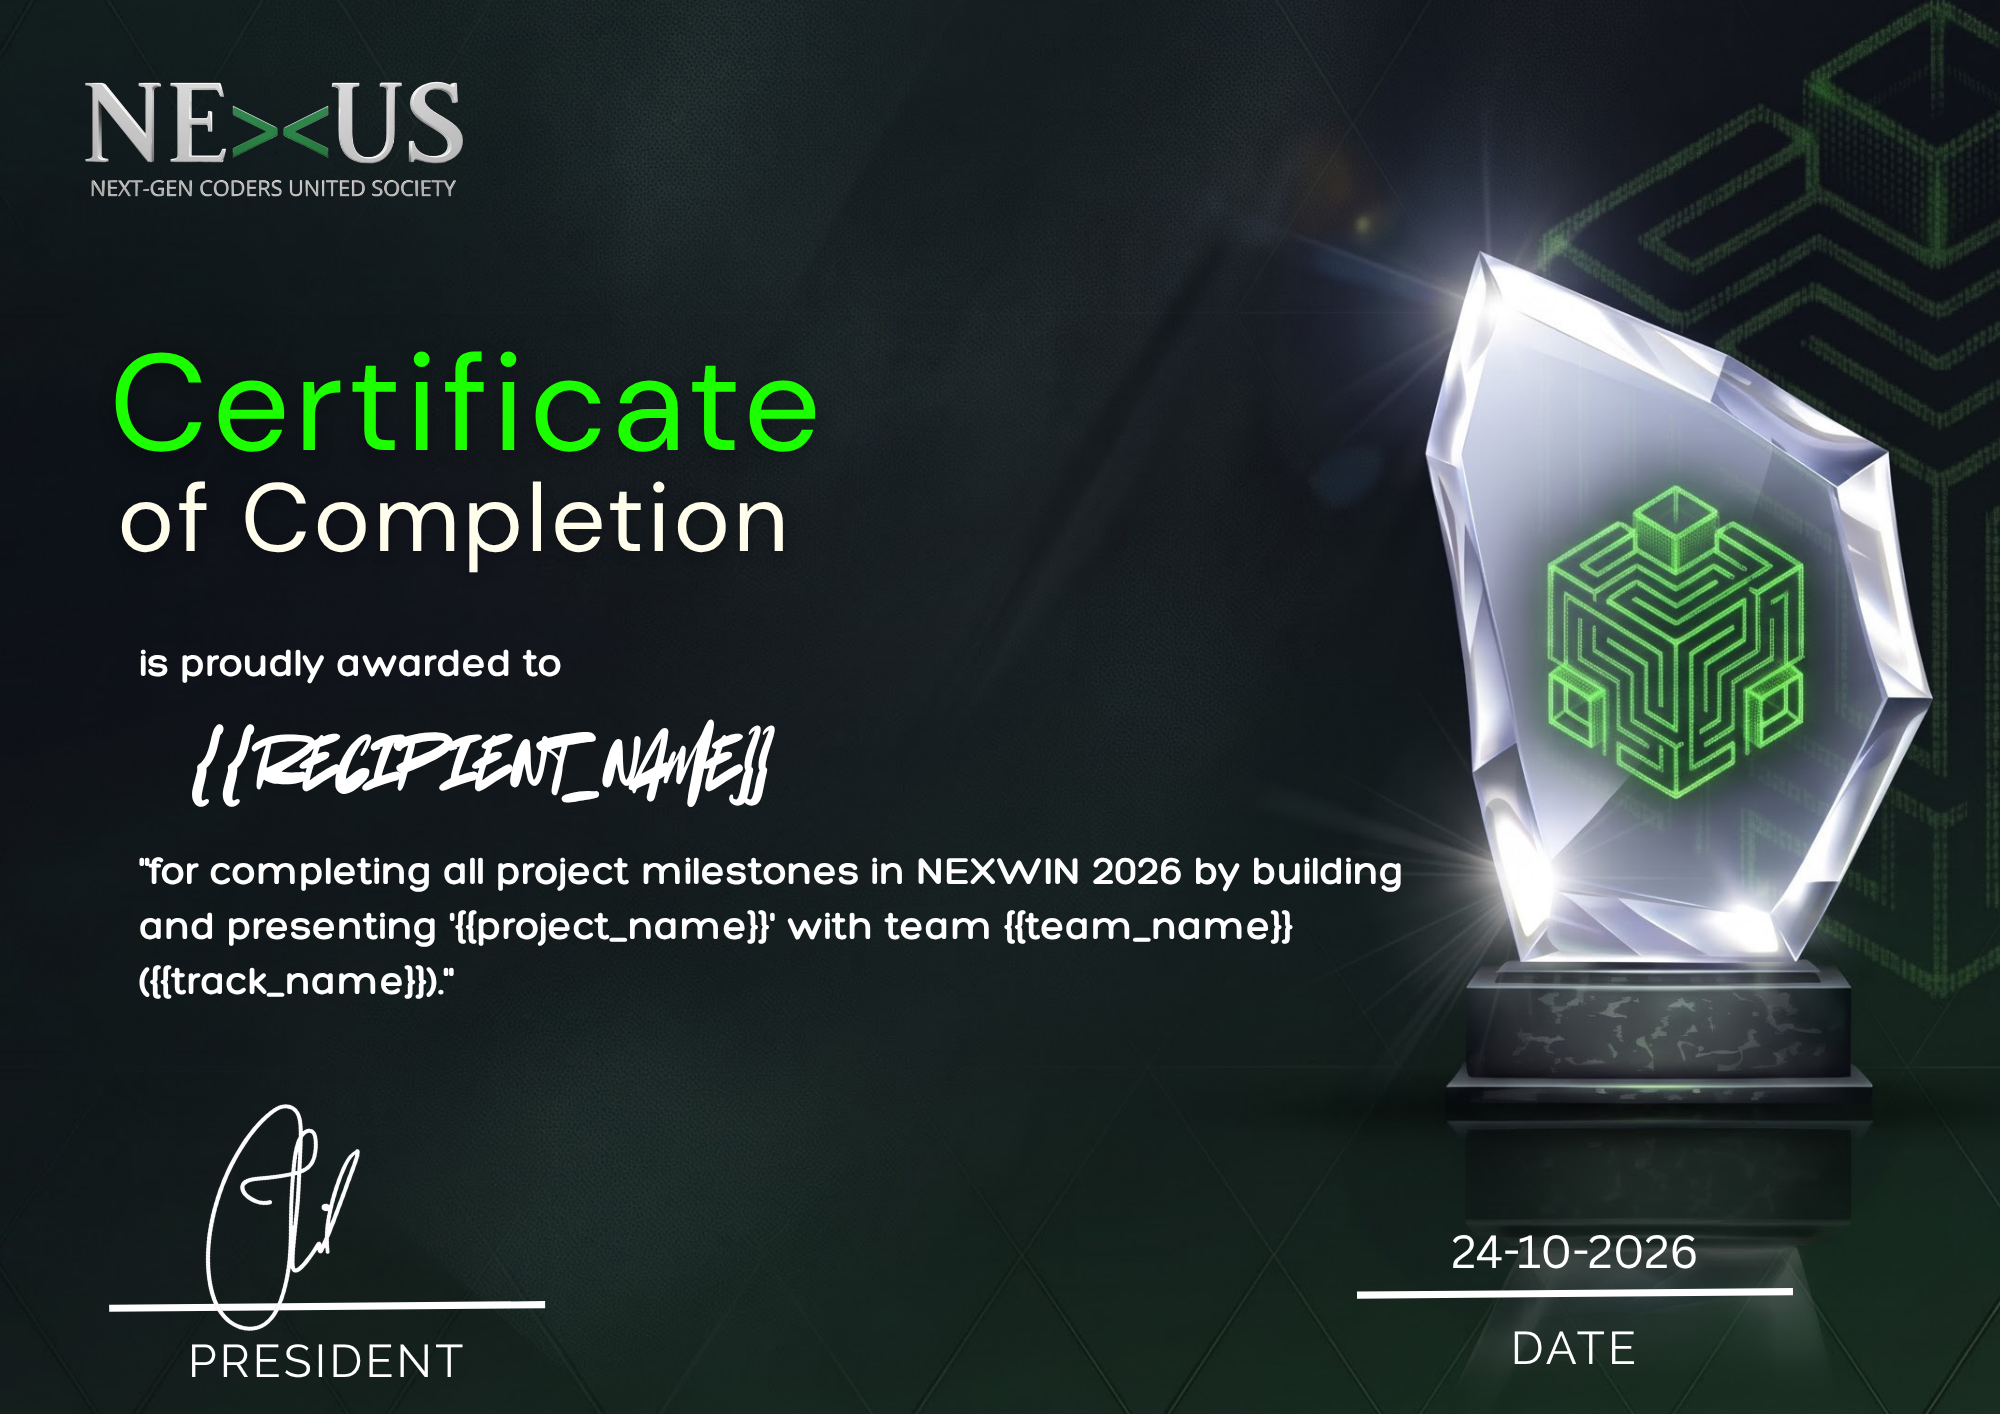
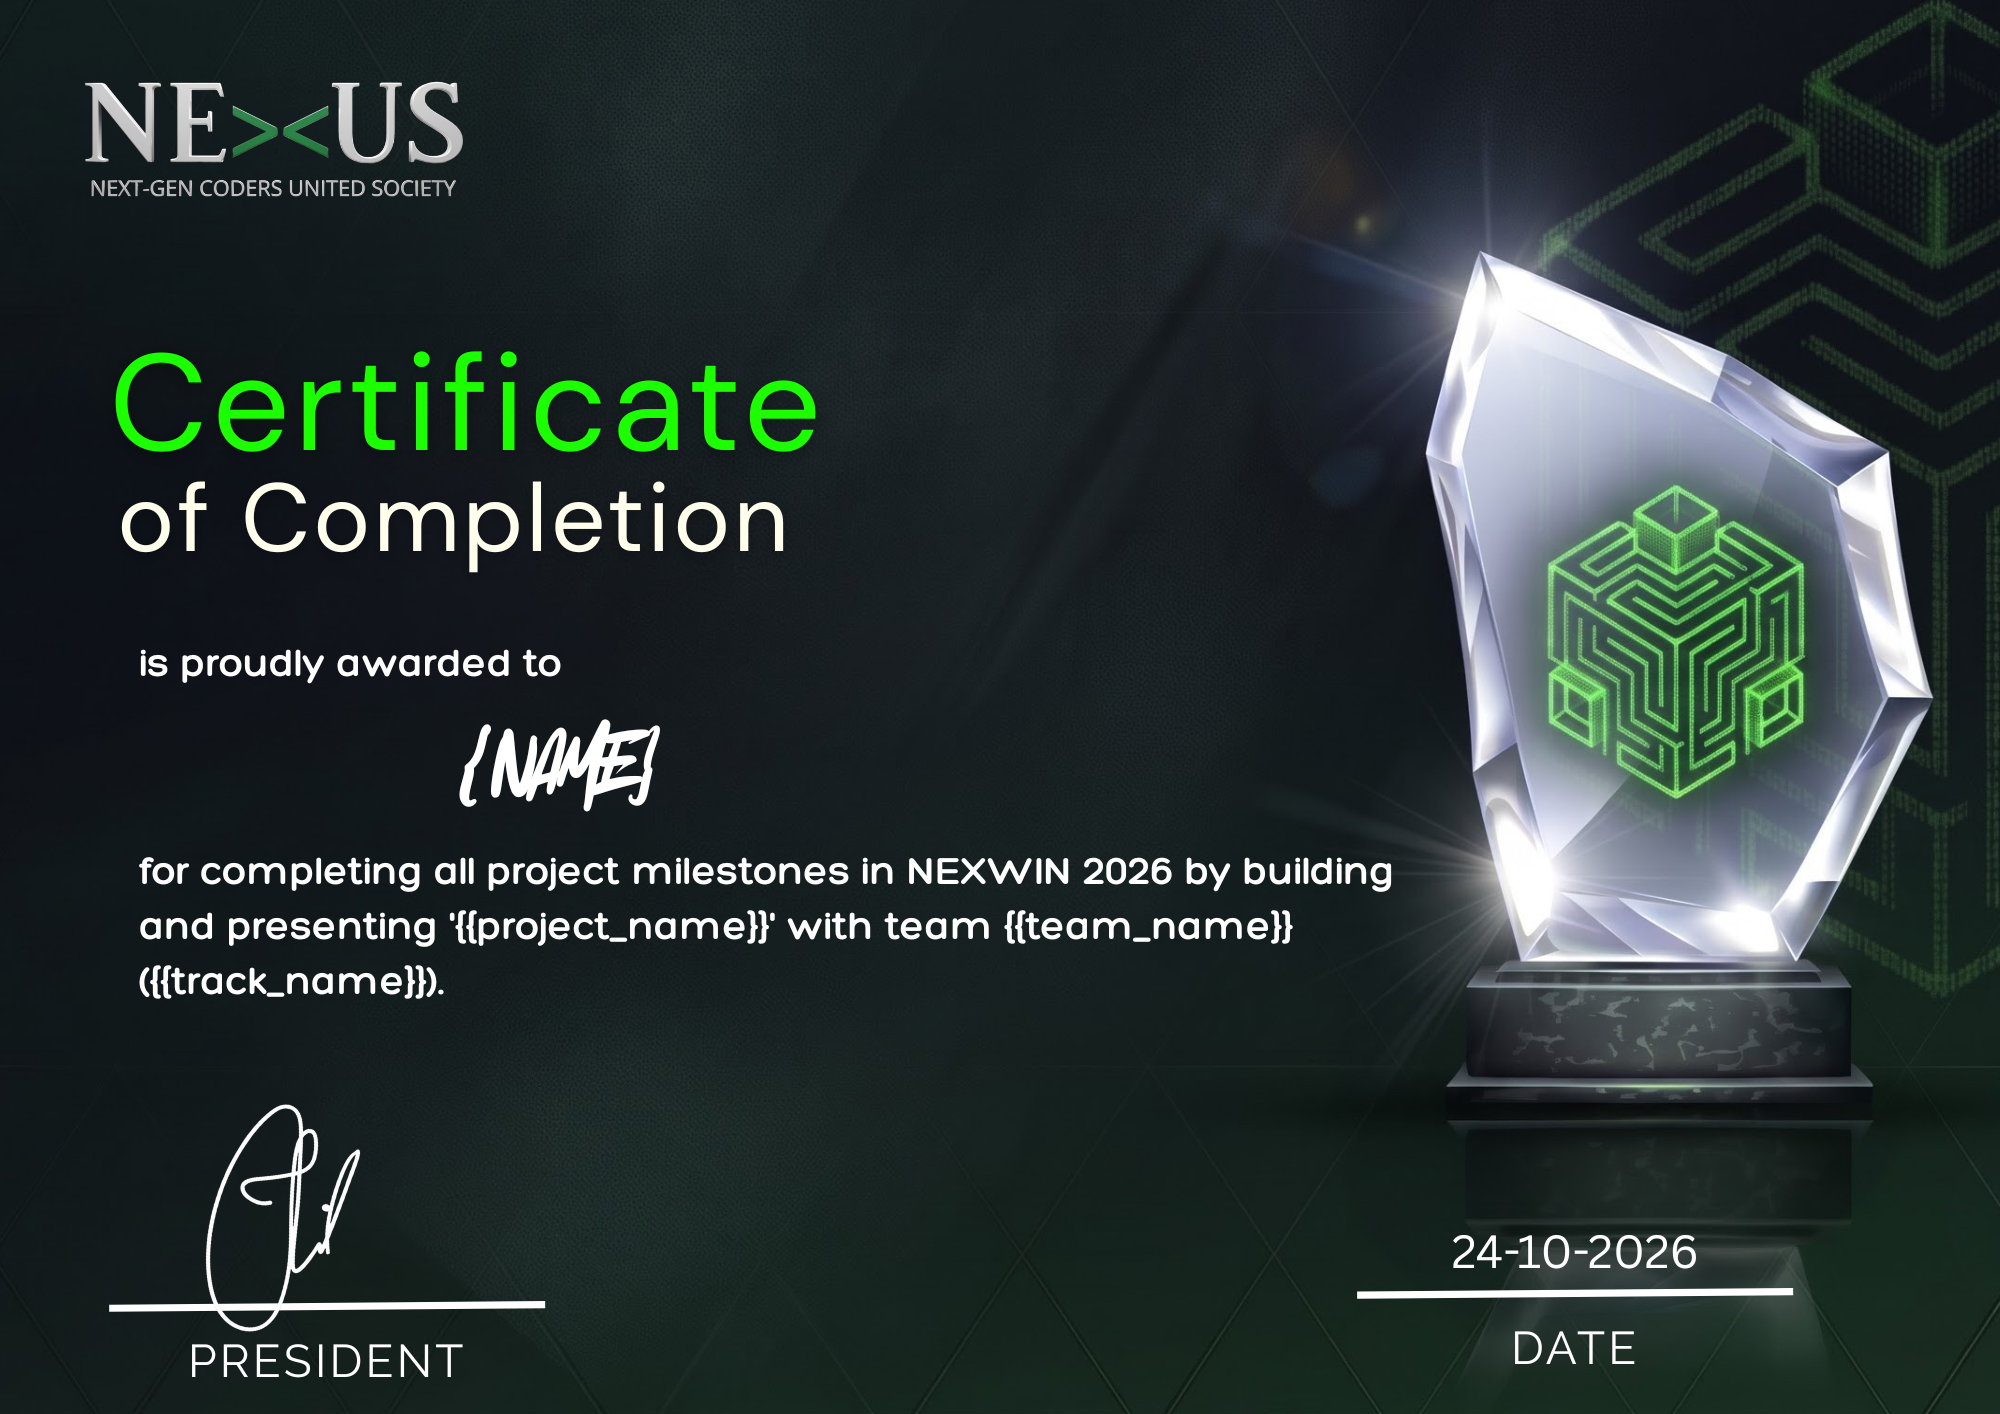
final update

Changed region(s): [[0.062, 0.4979, 0.713, 0.6535], [0.124, 0.8091, 0.155, 0.8402]]

diff --git a/lib/certificates/config.ts b/lib/certificates/config.ts
@@ -120,8 +120,8 @@ export const CERTIFICATE_TEMPLATES: Record<CertificateType, CertificateTemplate>
       {
         id: "comp-name",
         dataKey: "name",
-        box: { x: 80, y: 712, width: 1150, height: 105 },
-        mask: { sliceY: 700, sliceHeight: 4 },
+        box: { x: 80, y: 675, width: 1150, height: 140 },
+        mask: { sliceY: 645, sliceHeight: 4 },
         align: "left",
         fontFamily: FONTS.certificateBrush,
         weight: "normal",
@@ -135,8 +135,8 @@ export const CERTIFICATE_TEMPLATES: Record<CertificateType, CertificateTemplate>
       {
         id: "comp-body",
         dataKey: "body",
-        box: { x: 80, y: 845, width: 1335, height: 175 },
-        mask: { sliceY: 835, sliceHeight: 4 },
+        box: { x: 80, y: 835, width: 1335, height: 180 },
+        mask: { sliceY: 825, sliceHeight: 4 },
         align: "left",
         fontFamily: FONTS.sansFacts,
         weight: "500",

diff --git a/lib/certificates/render.ts b/lib/certificates/render.ts
@@ -66,7 +66,7 @@ export function resolveFieldValue(
       const trackName = detail ? detail.name : "Hackathon Track";
       if (template.id === "completion") {
         const project = (data.projectName || "").trim() || "their project";
-        text = `"for completing all project milestones in NEXWIN 2026 by building and presenting '${project}' with team ${data.team} (${trackName})."`;
+        text = `for completing all project milestones in NEXWIN 2026 by building and presenting '${project}' with team ${data.team} (${trackName}).`;
       } else {
         const roleWord =
           data.role && data.role.toLowerCase().includes("leader")
